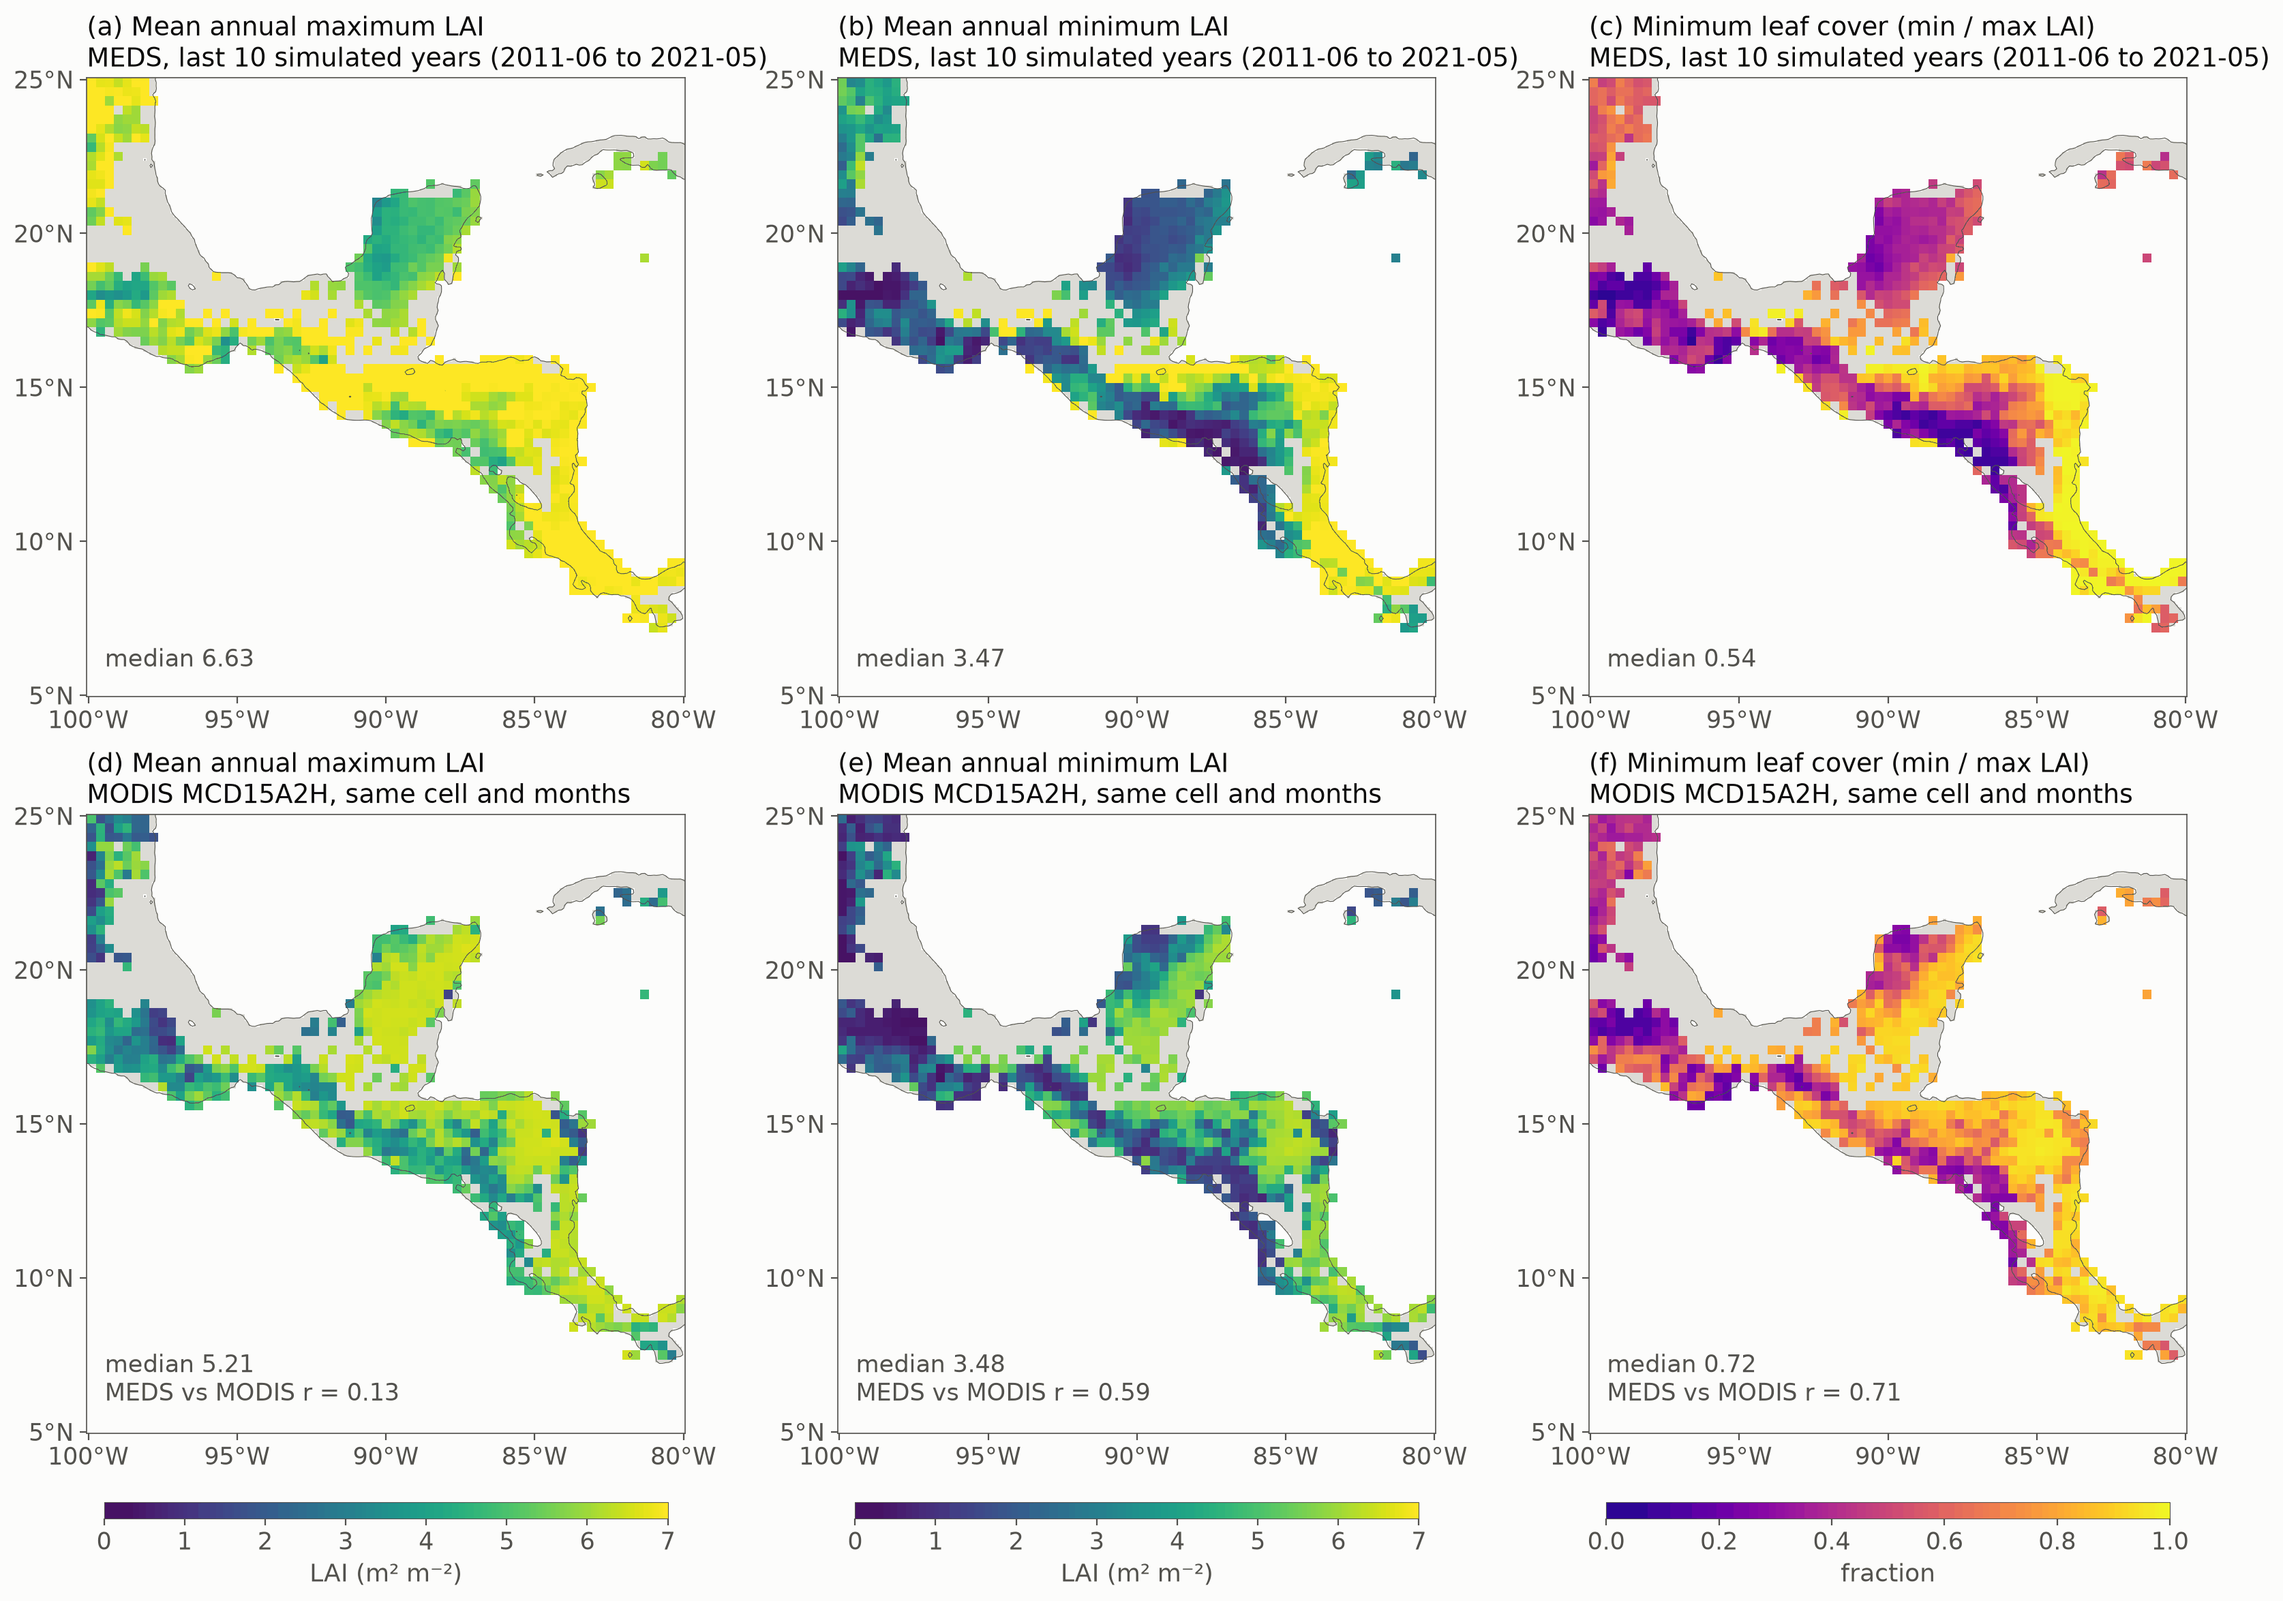
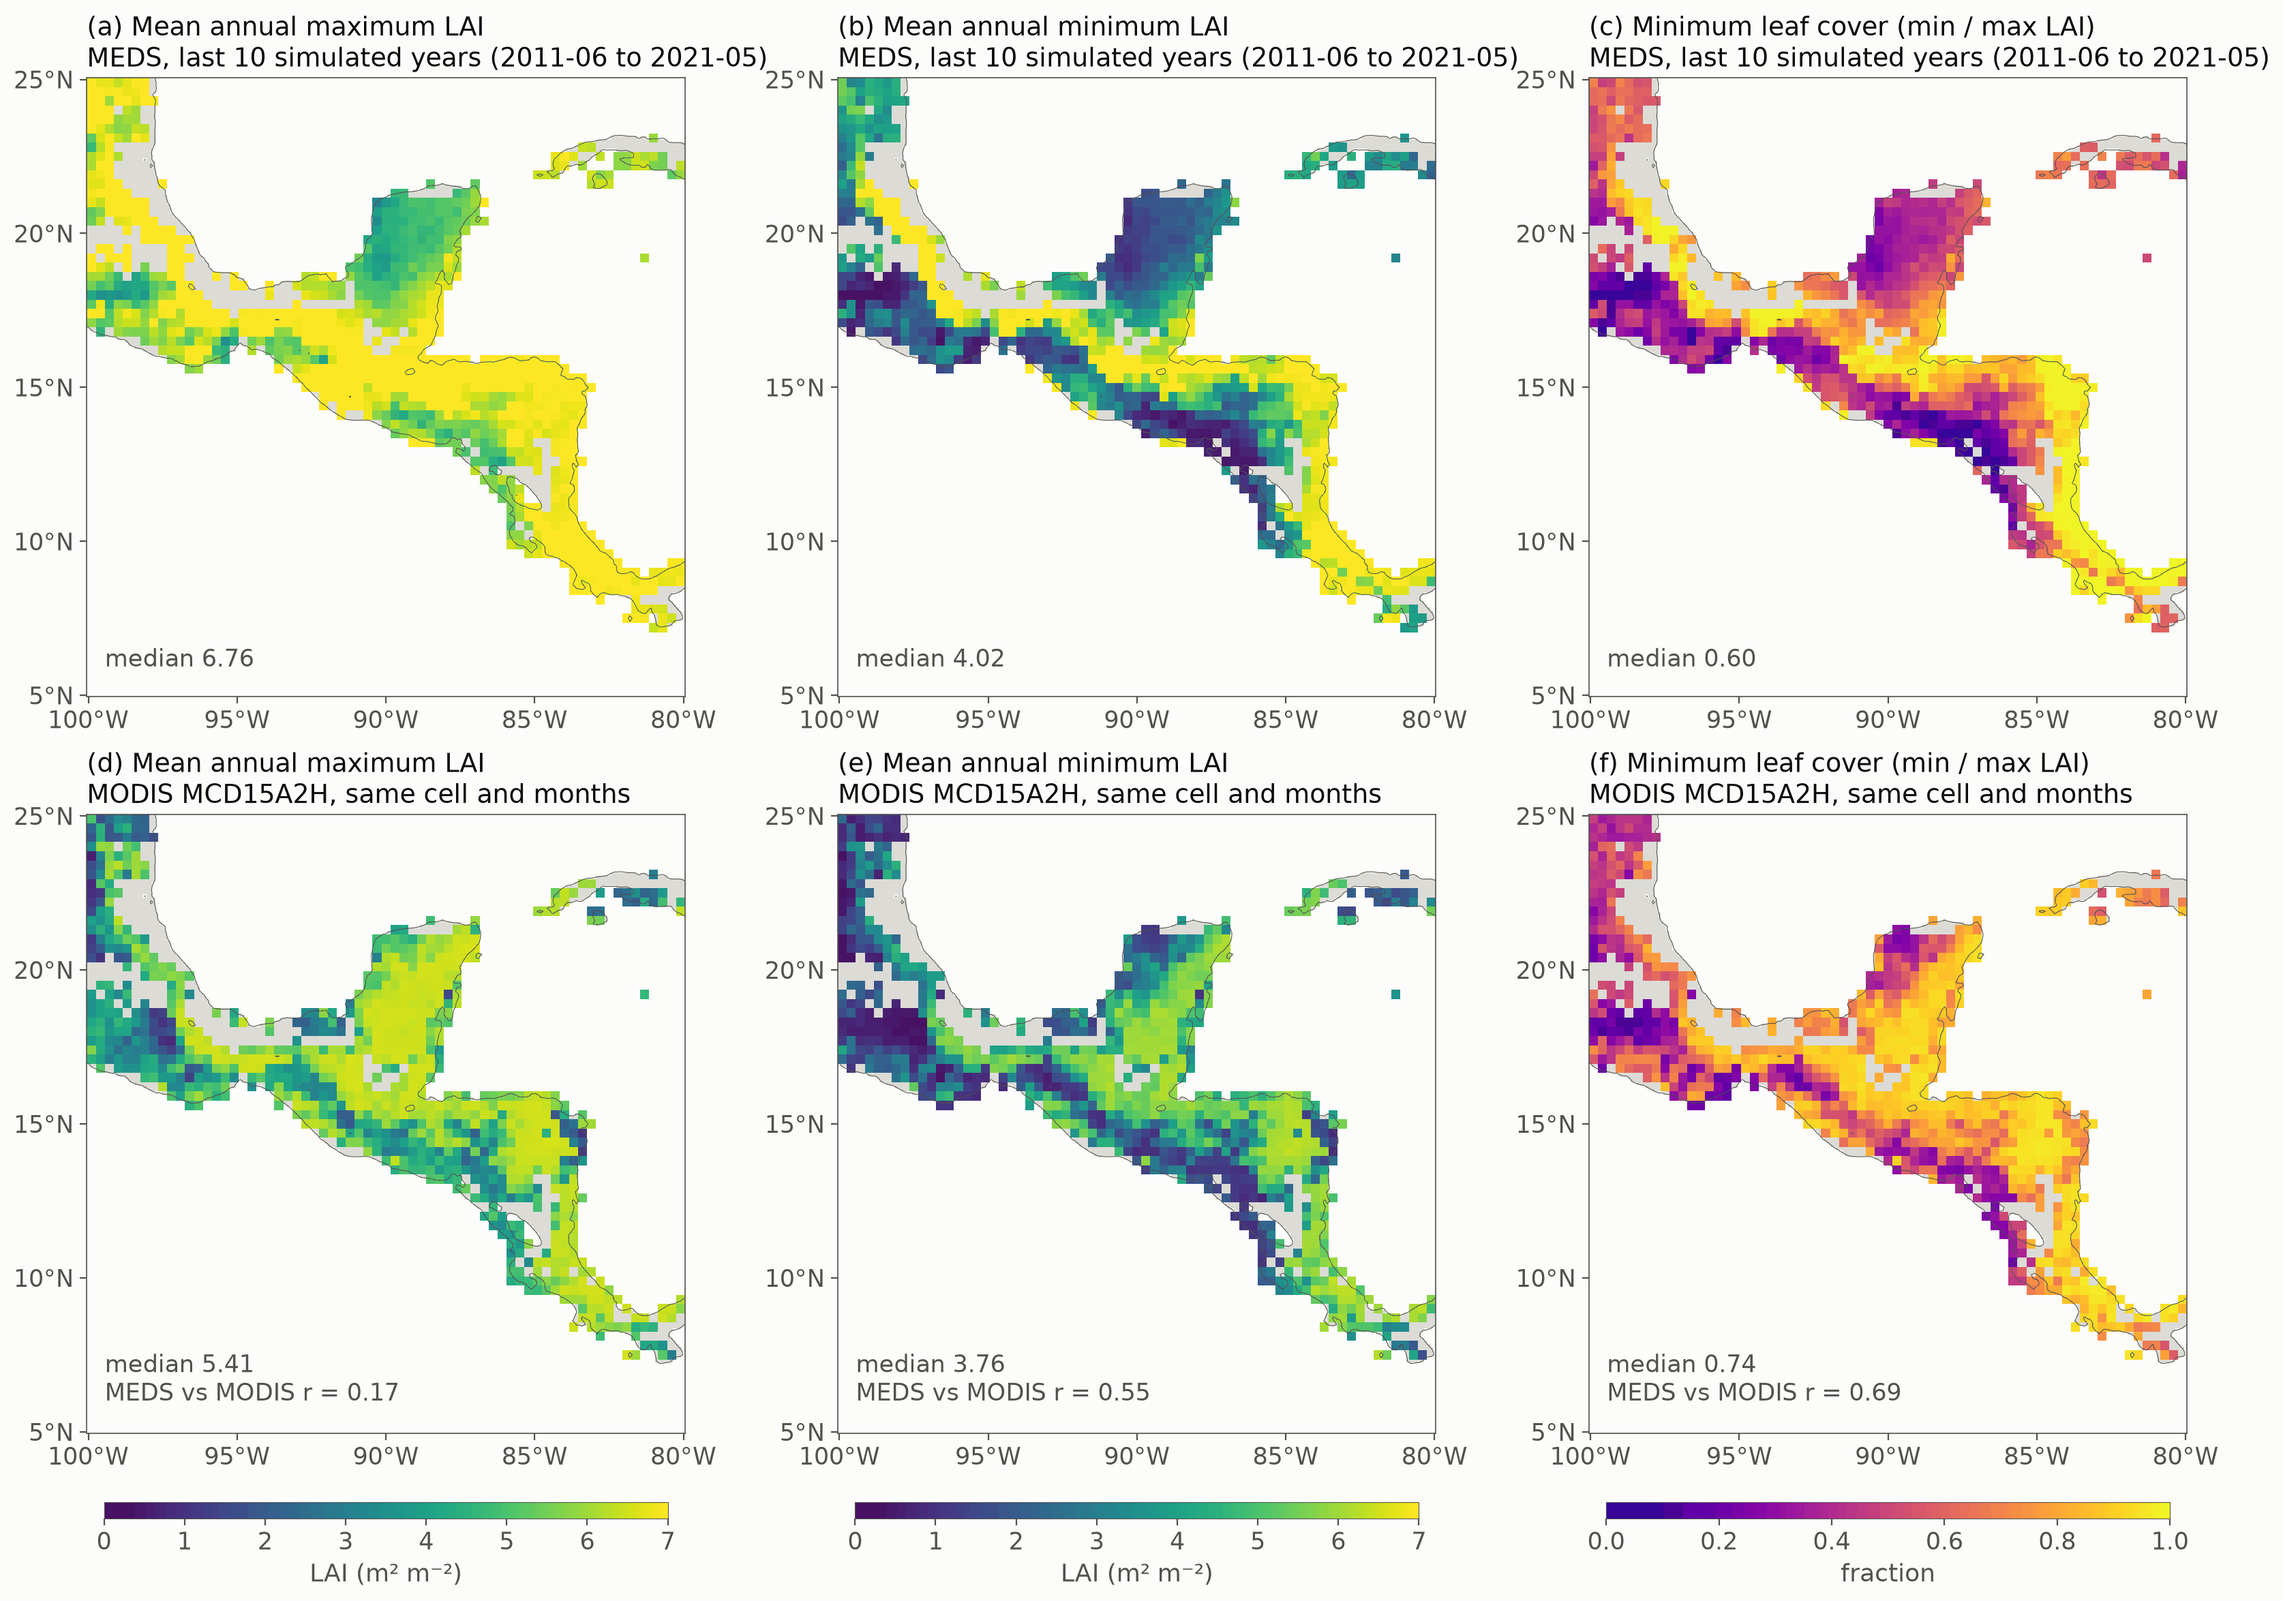
example06: figures and numbers from all 983 cells
The regional run's last cell finished; the three figures are re-rendered
from all 983 cells and the README's numbers follow: MODIS leaf cover
r 0.69, peak LAI median 6.8 against 5.4 (r 0.17), 40 cells without
MODIS, run time median 4.6 h, about 0.4 s per cohort-year on most nodes
(0.2 s on the fastest), canopy 14-46 m, AGB plateau 210-225 Mg/ha.

diff --git a/examples/example06_regional_run/README.md b/examples/example06_regional_run/README.md
@@ -9,8 +9,6 @@ ground in 983 cells of their box. The last ten years of
 each run are set against MODIS leaf area, and the same runs give the region's productivity, biomass,
 canopy height and regrowth ([Additional results](#additional-results)).
 
-814 of the 983 cells have finished; the figures and numbers below cover those.
-
 ![Leaf area and its seasonality, MEDS against MODIS](lai_seasonality_vs_modis.png)
 
 Top: MEDS, the last ten simulated years (June 2011 – May 2021). Bottom: MODIS MCD15A2H at the same cell
@@ -20,10 +18,10 @@ way: monthly mean LAI, the maximum and minimum of the twelve months of each June
 of those over the ten years. A MODIS month is the mean of the cell's 8-day composites centred in it; each
 composite is the mean of the cell's 500 m pixels that pass the QC filter and a 3-point running median,
 and counts when at least a quarter of the pixels do. A year counts with at least six such months, a cell
-with at least three such years; 33 cells have fewer (most lie on a coast or in Costa Rica and Panama)
+with at least three such years; 40 cells have fewer (all lie on a coast or in Costa Rica and Panama)
 and are blank in the MODIS row. Each simulated cell is drawn as the 0.3° block (3 × 3 ERA5-Land cells) it stands for; grey is
-land with no simulated cell. The leaf cover follows the rainfall as MODIS's does (r = 0.71 across
-cells); the peak leaf area is too high and too even (median 6.6 against 5.2, r = 0.13).
+land with no simulated cell. The leaf cover follows the rainfall as MODIS's does (r = 0.69 across
+cells); the peak leaf area is too high and too even (median 6.8 against 5.4, r = 0.17).
 
 ## The regional run
 
@@ -48,10 +46,10 @@ vegetation (ESA CCI 2001–2020, via the ED soil maps' diagnostics) runs, if it 
 | Output | monthly: LAI and AGB and GPP by PFT, site LAI and GPP, canopy height (the tallest cohort), trees ≥ 10 cm | |
 
 **Speed.** One cell is one single-core task (peak memory under 70 MB). A run takes 0.2–14 hours (median
-3.7). The cost follows the stand: about 0.24 s of compute per cohort per simulated year, and a wetter
-cell grows more cohorts — about 40 below 1,000 mm of rain a year against 650 above 2,500 — so the driest
-cells take half an hour and the wettest 10–14 hours. The 983 cells take about 5,100 core-hours, a day on
-the 304 cores of the lab's cluster.
+4.6). The cost follows the stand: about 0.4 s of compute per cohort per simulated year on most of the
+lab's nodes (0.2 s on its fastest), and a wetter cell grows more cohorts — about 30 below 1,000 mm of
+rain a year against 670 above 2,500 — so the driest cells take half an hour and the wettest tenth 6–14
+hours. The 983 cells take about 5,100 core-hours, a day on the 304 cores of the lab's cluster.
 
 ## Additional results
 
@@ -59,8 +57,8 @@ the 304 cores of the lab's cluster.
 
 The last ten simulated years (June 2011 – May 2021): (a) GPP, (b) aboveground biomass (dry mass, all
 stems), (c) canopy height (the tallest cohort) and (d) wood density, the PFTs' weighted by their AGB.
-From the driest cells to the wettest, GPP doubles and the canopy grows from about 13 to 46 m, while AGB
-levels off at 210–220 Mg ha⁻¹ above about 1,500 mm of rain. Brevi-deciduous trees hold most of the
+From the driest cells to the wettest, GPP doubles and the canopy grows from about 14 to 46 m, while AGB
+levels off at 210–225 Mg ha⁻¹ above about 1,500 mm of rain. Brevi-deciduous trees hold most of the
 biomass in three cells of four, and wood density falls with rainfall (0.74 to 0.61 g cm⁻³) as the
 soft-wooded Ds gains a share.
 
